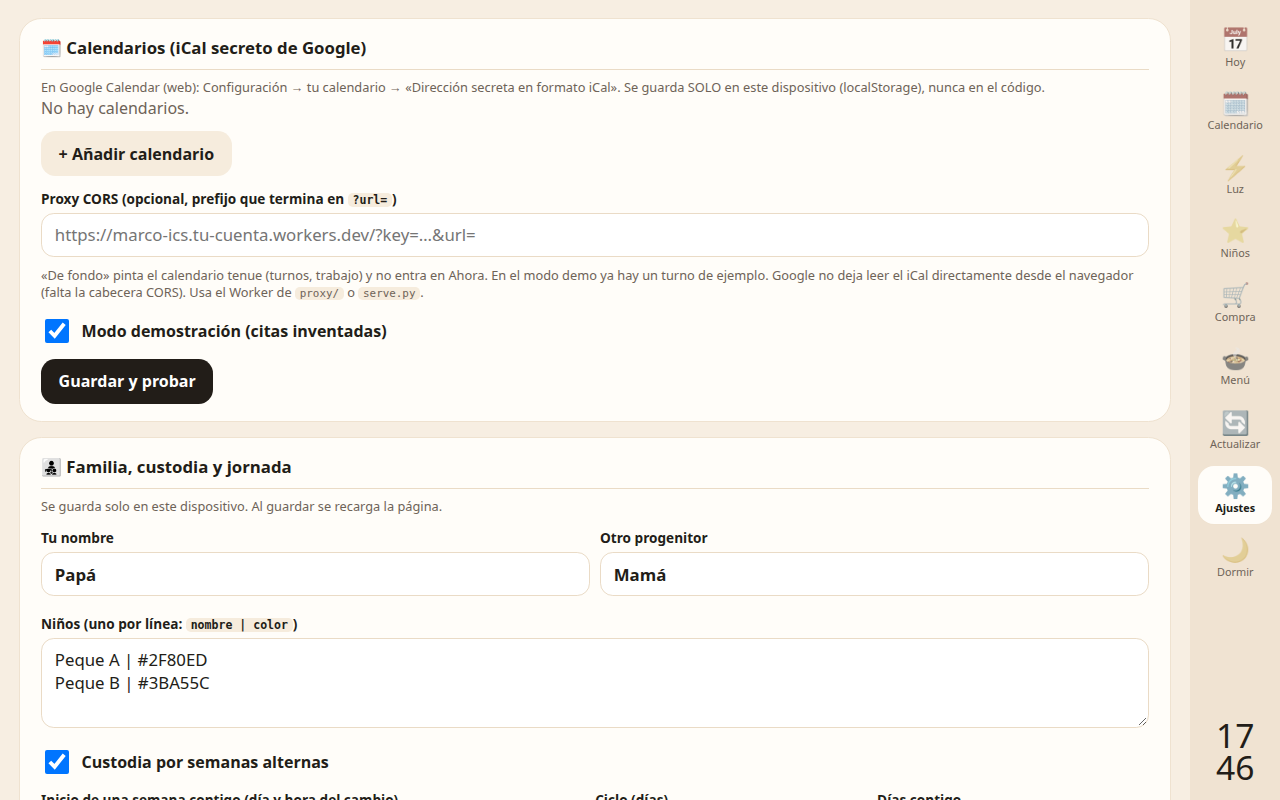
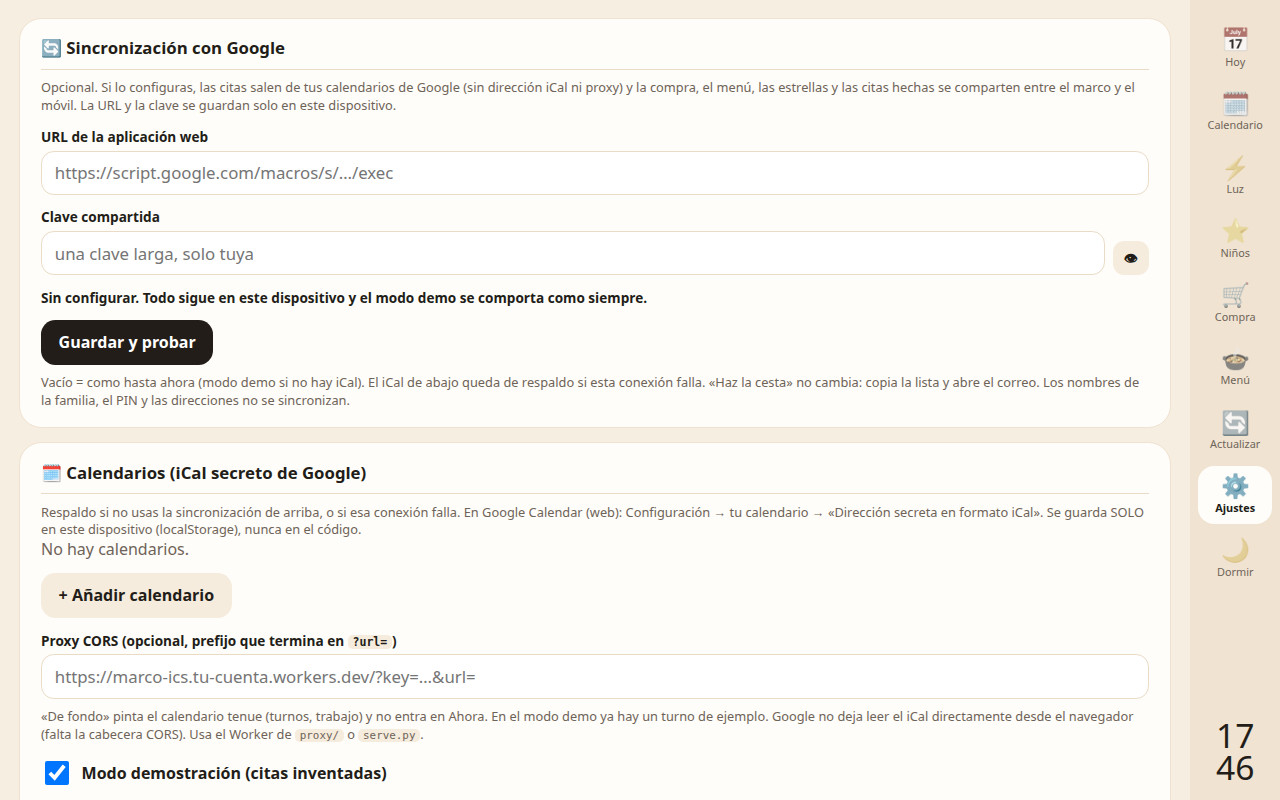
Marco v2: captura de la tarjeta de sincronización
La prueba comprueba la cita de ejemplo en los eventos y que el turno de fondo queda marcado. Las capturas usan solo datos de ejemplo.

diff --git a/marco-v2/tests/test_marco.py b/marco-v2/tests/test_marco.py
@@ -431,7 +431,10 @@ process.stdin.on("end", function () {
     page.locator("#syncCard").screenshot(path=os.path.join(OUT, "12-sincronizacion.png"))
     check("la clave no viaja en la URL", not box["key_in_url"])
     check("demo apagado al conectar", page.evaluate("() => !Marco.demoOn()"))
-    check("cita de ejemplo y turno de fondo", "Reunión de ejemplo" in page.inner_text("body") and page.locator(".sync-cal", has_text="Turno ejemplo").locator("input").is_checked())
+    # La cita no se pinta en Ajustes: está en los eventos y el turno sale marcado de fondo.
+    ev_txt = page.evaluate("() => Marco.S.events.map(e => e.title + (e.background ? '·fondo' : '')).join('|')")
+    turno_on = page.locator(".sync-cal", has_text="Turno ejemplo").locator("input").is_checked()
+    check("cita de ejemplo y turno de fondo", "Familia ejemplo" in page.inner_text("#syncCard") and turno_on and "Reunión de ejemplo" in ev_txt and "Turno ejemplo·fondo" in ev_txt, ev_txt)
     page.click("#rail [data-go=hoy]"); page.wait_for_selector(".next-title")
     check("ahora enseña la cita y no el turno de fondo", "Reunión" in page.inner_text(".next-title") and "Turno" not in page.inner_text(".next-title"))
     check("el turno se pinta de fondo", page.locator(".ev-bg", has_text="Turno ejemplo").count() >= 1)
